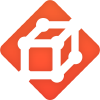
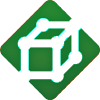
1.0

diff --git a/README.md b/README.md
@@ -1,5 +1,5 @@
 <h1>
-    <img src="worldedit-logo.svg" alt="SurvivalEdit" width="400" />
+    <img src="worldedit-neoforge/src/main/resources/worldedit-icon.png" alt="SurvivalEdit" width="160" />
 </h1>
 
 **Survival-friendly WorldEdit fork for NeoForge.**
@@ -80,7 +80,9 @@ Existing mods to test with can be dropped into `worldedit-neoforge/run/mods/`.
 - Mod id: `worldedit`
 - Mod name: `SurvivalEdit`
 - Target platform: NeoForge on Minecraft `1.21.1`
-- Mod version: `1.0`
+- Mod version: `1.0` (`survivaledit.version` in the manifest, `survivalEditVersion` in `gradle.properties`)
+- WorldEdit base version: `7.3.8` (kept for WorldEditCUI; the jar is named
+  `survivaledit-neoforge-1.0-mc1.21.1-7.3.8-dist.jar`)
 
 ### Repo
 This repository is maintained as `M9MX/survivaledit` and is no longer synced with the upstream
